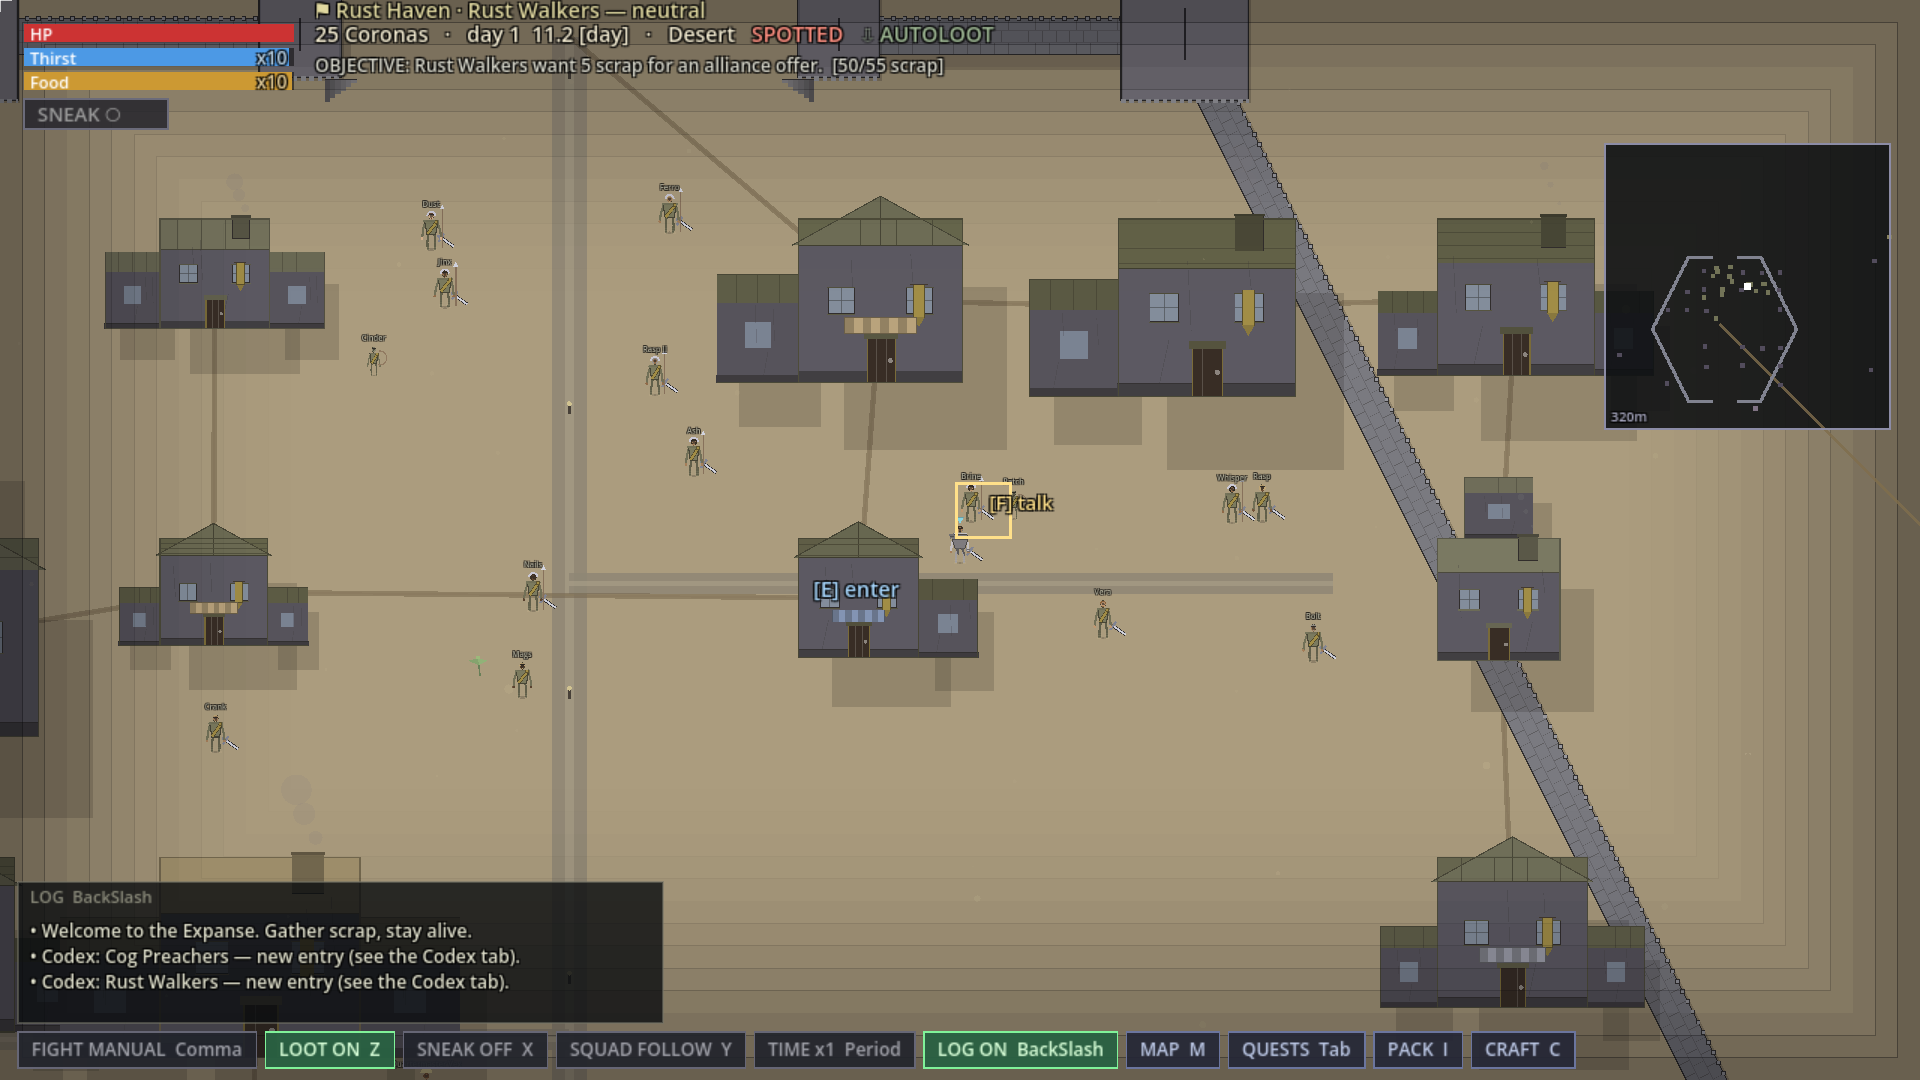
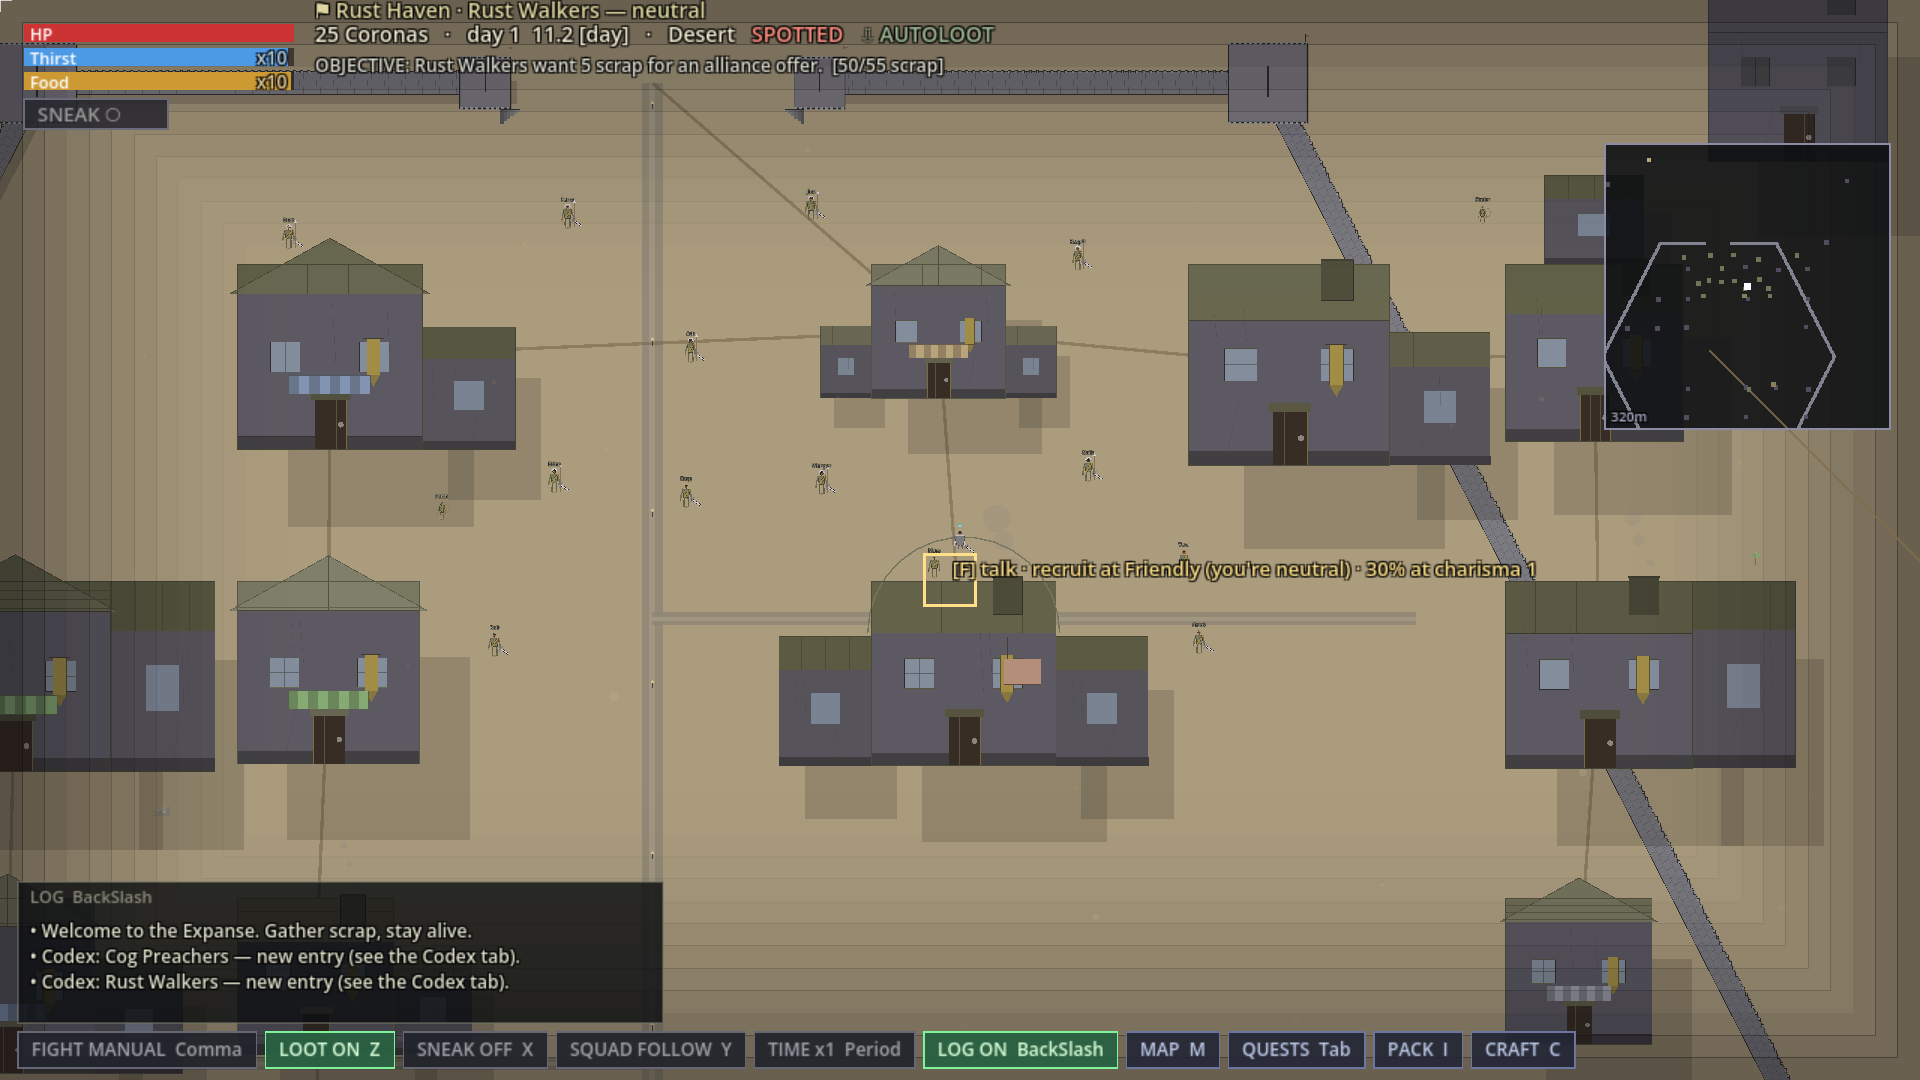
Screenshots: a fresh set, taken on the bigger world
Every building in the Expanse is half again as big as it was, the map has
grown to match, and the world was rebuilt from scratch, so the old seven
shots were photographs of a game that no longer exists. All seven re-taken.

The bar shot is the one to look at: the taproom now reads as a room, with
the keeper at his counter, drinkers in with him, and the stairwell standing
in the corner. Captions rewritten to match what is actually in each frame.

diff --git a/index.html b/index.html
@@ -243,7 +243,7 @@
     <button class="navbtn prev" type="button" id="prev" aria-label="Previous screenshot">&#8249;</button>
     <button class="navbtn next" type="button" id="next" aria-label="Next screenshot">&#8250;</button>
   </div>
-  <p class="caption"><span class="idx" id="shot-idx">01 / 07</span><span id="shot-cap">Rust Haven at midday — a Rust Walker town inside its hexagonal curtain wall, two dozen townsfolk on the streets, and a door you can walk through.</span></p>
+  <p class="caption"><span class="idx" id="shot-idx">01 / 07</span><span id="shot-cap">Rust Haven at midday — a Rust Walker town inside its curtain wall. Roads run gate to gate, footpaths thread between the houses, and the townsfolk are out on them.</span></p>
   <div class="thumbs" id="thumbs" role="tablist" aria-label="Choose a screenshot"></div>
 </section>
 
@@ -375,13 +375,13 @@
 <script>
 (function(){
   var shots = [
-    ["screenshots/01.png","Rust Haven at midday — a Rust Walker town inside its hexagonal curtain wall, two dozen townsfolk on the streets, and a door you can walk through."],
-    ["screenshots/02.png","The same street at 23:20. Lit windows, lamps down the main road, and a crowd you can only half see — night is genuinely dark, and what you can see depends on what you are carrying."],
-    ["screenshots/03.png","A dust storm over the highway through Corona's Grave. Wind-aligned streaks, the tint on everything, travellers strung out along the road, and an Architect ruin just found and marked."],
-    ["screenshots/04.png","Inside The Crooked Compass — the keeper behind the Rusty Cog's counter, patrons at the tables, kegs and stools, and a floor selector for the rooftop and the basement."],
-    ["screenshots/05.png","A street brawl mid-swing: damage numbers in the air, blood and dropped packs on the ground, two Dust Reavers still standing, and a log line reading “You kill a Dust Reaver. Their people won't forget.”"],
-    ["screenshots/06.png","The whole Expanse laid flat — biome ground, faction territories in their own colours, named capitals, the sixteen named lands, and a compass rose."],
-    ["screenshots/07.png","Six days of world, written down: a famine in the Cinder Dominion, a war between the Blacklight Syndicate and the Automatons, treasuries, world mood — and “A shadow crossed the sun for the length of a breath, and the birds have not come back down.”"]
+    ["screenshots/01.png","Rust Haven at midday — a Rust Walker town inside its curtain wall. Roads run gate to gate, footpaths thread between the houses, and the townsfolk are out on them."],
+    ["screenshots/02.png","The same streets at 23:20. Lamps down the main road, lit windows, and a crowd you can only half see — night is genuinely dark, and what you can see depends on what you are carrying."],
+    ["screenshots/03.png","A dust storm on the highway through the Corona’s Grave highlands: the tint on everything, the haze banked across it and the wind-blown streaks. The travellers strung out along the road were already walking it — and an Architect ruin has just been found and marked."],
+    ["screenshots/04.png","Inside an Automaton taproom in Machine Nexus — the keeper at his counter, three drinkers, stools, crates and shelves, and the stairwell in the corner that runs up to the roof and down to the cellar. The roof simply fades as you step under it — no loading screen, no separate map."],
+    ["screenshots/05.png","A street brawl in Rust Haven, mid-swing: damage in the air, blood and dropped packs on the ground, three Dust Reavers still on their feet — and the log keeping score of the other three: “You kill a Dust Reaver. Their people won’t forget.”"],
+    ["screenshots/06.png","The whole Expanse laid flat — biome ground, faction territories in their own colours, their named capitals, the named lands between them, and a compass rose."],
+    ["screenshots/07.png","Six days of world, written down: a famine in the Cinder Dominion, a war between the Blacklight Syndicate and the Automatons, coffers, border clashes, the world’s mood — and “Frost on the salt flats at noon. The old hands have stopped calling it weather.”"]
   ];
   var img = document.getElementById('shot'),
       cap = document.getElementById('shot-cap'),
